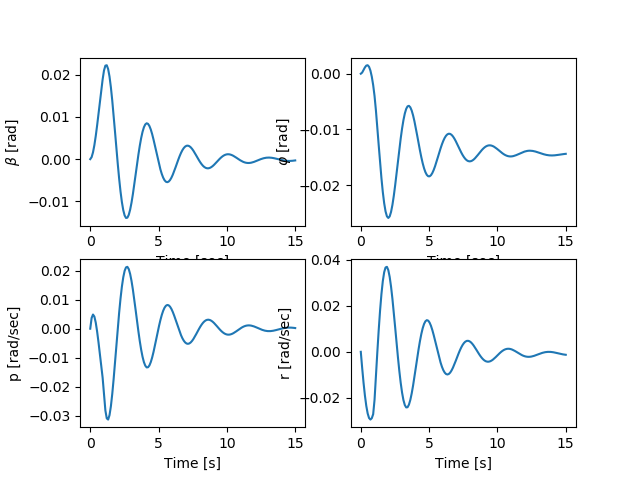
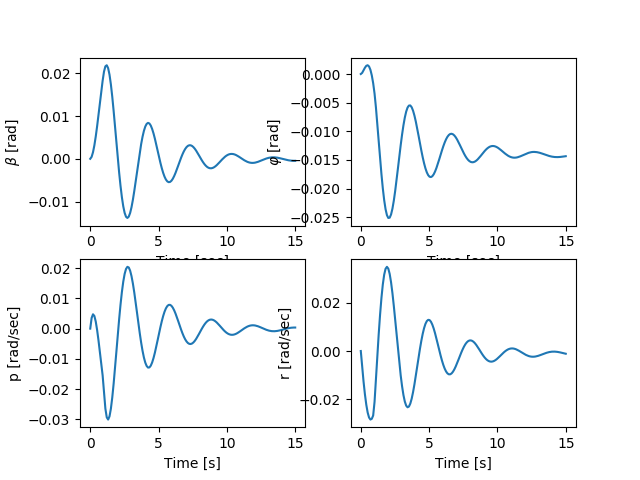
new

diff --git a/Simulation/flight_data_plots.py b/Simulation/flight_data_plots.py
@@ -31,36 +31,38 @@ x_f1 = 0
 x_b1 = 0
 x_change1 = (-x_f1 + x_b1)
 
-plt.subplot(221)
-plt.plot(np.arange(0,time_phugoid+x_change1,0.1), V_tas_d1[lst_element[2]+x_f1*10:lst_element[2]+time_phugoid*10+x_b1*10])
-plt.xlabel('Time [s]')
-plt.ylabel('V [m/s]')
-plt.grid()
+#plt.subplot(221)
+#plt.plot(np.arange(0,time_phugoid+x_change1,0.1), V_tas_d1[lst_element[2]+x_f1*10:lst_element[2]+time_phugoid*10+x_b1*10])
+#plt.xlabel('Time [s]')
+#plt.ylabel('V [m/s]')
+#plt.grid()
+#
+#plt.subplot(222)
+#plt.plot(np.arange(0,time_phugoid+x_change1,0.1), pitch_angle_d1[lst_element[2]+x_f1*10:lst_element[2]+time_phugoid*10+x_b1*10])
+#plt.xlabel('Time [s]')
+#plt.ylabel(r'$\Theta$ [rad]')
+#plt.grid()
+#
+#plt.subplot(223)
+#plt.plot(np.arange(0,time_phugoid+x_change1,0.1), AoA_d1[lst_element[2]+x_f1*10:lst_element[2]+time_phugoid*10+x_b1*10])
+#plt.xlabel('Time [s]')
+#plt.ylabel(r'$\alpha$ [rad]')
+#plt.grid()
+#
+#plt.subplot(224)
+#plt.plot(np.arange(0,time_phugoid+x_change1, 0.1), body_pitch_rate_d1[lst_element[2]+x_f1*10:lst_element[2]+time_phugoid*10+x_b1*10])
+#plt.xlabel('Time [s]')
+#plt.ylabel('q [rad/s]')
+#plt.grid()
 
-plt.subplot(222)
-plt.plot(np.arange(0,time_phugoid+x_change1,0.1), pitch_angle_d1[lst_element[2]+x_f1*10:lst_element[2]+time_phugoid*10+x_b1*10])
-plt.xlabel('Time [s]')
-plt.ylabel(r'$\Theta$ [rad]')
-plt.grid()
-
-plt.subplot(223)
-plt.plot(np.arange(0,time_phugoid+x_change1,0.1), AoA_d1[lst_element[2]+x_f1*10:lst_element[2]+time_phugoid*10+x_b1*10])
-plt.xlabel('Time [s]')
-plt.ylabel(r'$\alpha$ [rad]')
-plt.grid()
-
-plt.subplot(224)
-plt.plot(np.arange(0,time_phugoid+x_change1, 0.1), body_pitch_rate_d1[lst_element[2]+x_f1*10:lst_element[2]+time_phugoid*10+x_b1*10])
-plt.xlabel('Time [s]')
-plt.ylabel('q [rad/s]')
-plt.grid()
+#delta_e_input_phugoid =  (delta_e_d1[lst_element[2]+x_f1*10:lst_element[2]+time_phugoid*10+x_b1*10])
 
 "*** Short Period ***"
-#time_short = 15
-#x_f2 = 0
-#x_b2 = 0  
-#x_change2 = (-x_f2 + x_b2)
-#
+time_short = 15
+x_f2 = 0
+x_b2 = 0  
+x_change2 = (-x_f2 + x_b2)
+
 #plt.subplot(221)
 #plt.plot(np.arange(0,time_short+x_change2,0.1), V_tas_d1[lst_element[1]+x_f2*10:lst_element[1]+time_short*10+x_b2*10])
 #plt.xlabel('Time [s]')
@@ -85,4 +87,30 @@ plt.grid()
 #plt.ylabel('q [rad/s]')
 #plt.grid()
 
-#delta_e_input_phugoid =  (delta_e_d1[lst_element[2]+x_f1*10:lst_element[2]+time_phugoid*10+x_b1*10])
+#delta_e_input_short = (delta_e_d1[lst_element[1]+x_f2*10:lst_element[1]+time_short*10+x_b2*10])
+
+"*** Dutch Roll ***" 
+time_dutch = 15
+x_f3 = 0
+x_b3 = 0
+x_change3 = (-x_f3 + x_b3)
+
+plt.subplot(221)
+plt.plot(np.arange(0,time_short+x_change3,0.1), roll_angle_d1[lst_element[4]+x_f3*10:lst_element[4]+time_short*10+x_b3*10])
+plt.xlabel('Time [s]')
+plt.ylabel(r'$\phi$ [rad]')
+plt.grid()
+
+plt.subplot(222)
+plt.plot(np.arange(0,time_short+x_change3,0.1), body_roll_rate_d1[lst_element[4]+x_f3*10:lst_element[4]+time_short*10+x_b3*10])
+plt.xlabel('Time [s]')
+plt.ylabel('p [rad/s]')
+plt.grid()
+
+plt.subplot(223)
+plt.plot(np.arange(0,time_short+x_change3,0.1), body_yaw_rate_d1[lst_element[4]+x_f3*10:lst_element[4]+time_short*10+x_b3*10])
+plt.xlabel('Time [s]')
+plt.ylabel('r [rad/s]')
+plt.grid()
+
+

diff --git a/Simulation/Cit_par_updated.py b/Simulation/Cit_par_updated.py
@@ -2,17 +2,17 @@
 from math import *
 # xcg = 0.25 * c
 from FD_CLCD import e, CD0, CLa, CL, CD #For Stationary Part
-from flight_data import time_d, V_tas_d, V_cas_d, roll_angle_d, pitch_angle_d, body_roll_rate_d, body_pitch_rate_d, body_yaw_rate_d, hp_d, m_d, CL_d, CD_d #For stationary meas during dynamic part
+from flight_data import time_d, V_tas_d, V_cas_d, roll_angle_d, pitch_angle_d, body_roll_rate_d, body_pitch_rate_d, body_yaw_rate_d, hp_d, m_d #For stationary meas during dynamic part
 
 
 
 
 
 # ==========================CHOOSE WHICH MOTION===================================================
-#i = 0 #Check code, result is zero
+#i = 0 #Check code, result is zer
 #i = 1 #Aperiodic Roll
-# i = 2 #Short Period 
-i = 3 #Phugoid 
+i = 2 #Short Period 
+# i = 3 #Phugoid 
 # i = 4 #Dutch Roll 
 # i = 5 #Dutch Roll with Yaw Damper 
 # i = 6 #Spiral 
@@ -86,8 +86,8 @@ depsda = 4 / (A + 2)            # Downwash gradient [ ]
 
 # Lift and drag coefficient
 
-CL =  CL_d[i]       # Lift coefficient [ ]
-CD =  CD_d[i]       # Drag coefficient [ ]
+CL =  CL[i]       # Lift coefficient [ ]
+CD =  CD[i]       # Drag coefficient [ ]
 
 #--------------------------------------------------------
 
